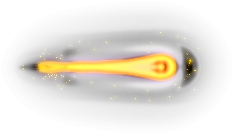
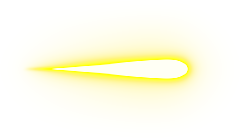
Added projectile launch from spaceship

diff --git a/main.py b/main.py
@@ -19,8 +19,17 @@ while running:
     # intégration de l'image de fond dans la fenêtre avec blit()
     screen.blit(background, (0, 0))
     
+    # intégration de l'image du joueur
     screen.blit(game.player.image, game.player.rect)
+
+    for projectile in game.player.all_projectiles:
+        projectile.move()
+
+    # intégration de l'image du projectile
+    game.player.all_projectiles.draw(screen)
     
+    # Vérification des touches utilisées par le joueur et récupération de sa position
+    # appels des méthodes permettant de déplacer le sprite du joueur
     if game.pressed.get(pygame.K_RIGHT) and game.player.rect.x + game.player.rect.width < screen.get_width():
         game.player.move_right() 
 
@@ -45,6 +54,9 @@ while running:
             
         elif event.type == pygame.KEYDOWN:
             game.pressed[event.key] = True
-            
+  
+            if event.key == pygame.K_SPACE:
+                game.player.launch_projectile()
+                
         elif event.type == pygame.KEYUP:        
             game.pressed[event.key] = False 

diff --git a/player.py b/player.py
@@ -1,19 +1,27 @@
 import pygame
+from projectile import Projectile
 
+# Classe représentant notre joueur (le vaisseau allié)
 class Player(pygame.sprite.Sprite):
     
+    # définition des propriétés du joueur
     def __init__(self):
         super().__init__()
         self.health = 100
         self.max_health = 100
         self.attack = 10
         self.velocity = 5
+        self.all_projectiles = pygame.sprite.Group()
         self.original_image = pygame.image.load('assets/spaceship_allier.png')
         self.image = pygame.transform.scale(self.original_image, (200, 150))
         self.rect = self.image.get_rect()
         self.rect.x = 400
         self.rect.y = 400
-        
+    
+    # méthodes propres à la classe du joueur
+    def launch_projectile(self):
+        self.all_projectiles.add(Projectile(self))
+
     def move_right(self):
         self.rect.x += self.velocity
         

diff --git a/projectile.py b/projectile.py
@@ -1,0 +1,26 @@
+import pygame
+from pygame.sprite import Group
+
+# Classe représentant un projectile
+class Projectile(pygame.sprite.Sprite):
+    
+    def __init__(self, player):
+        super().__init__()
+        self.velocity = 10
+        self.player = player
+        self.image = pygame.image.load('assets/projectile_allier.png')
+        self.image = pygame.transform.scale(self.image, (100, 70))
+        self.rect = self.image.get_rect()
+        self.rect.x = player.rect.x + 120
+        self.rect.y = player.rect.y + 40
+        
+    def remove_shoots(self):
+        #supprimer le projectile (en dehors de l'écran)
+        self.player.all_projectiles.remove(self)
+
+    def move(self):
+        self.rect.x += self.velocity
+
+        if self.rect.x > 1080:
+            self.remove_shoots()
+            print("Projectile supprimé !")
